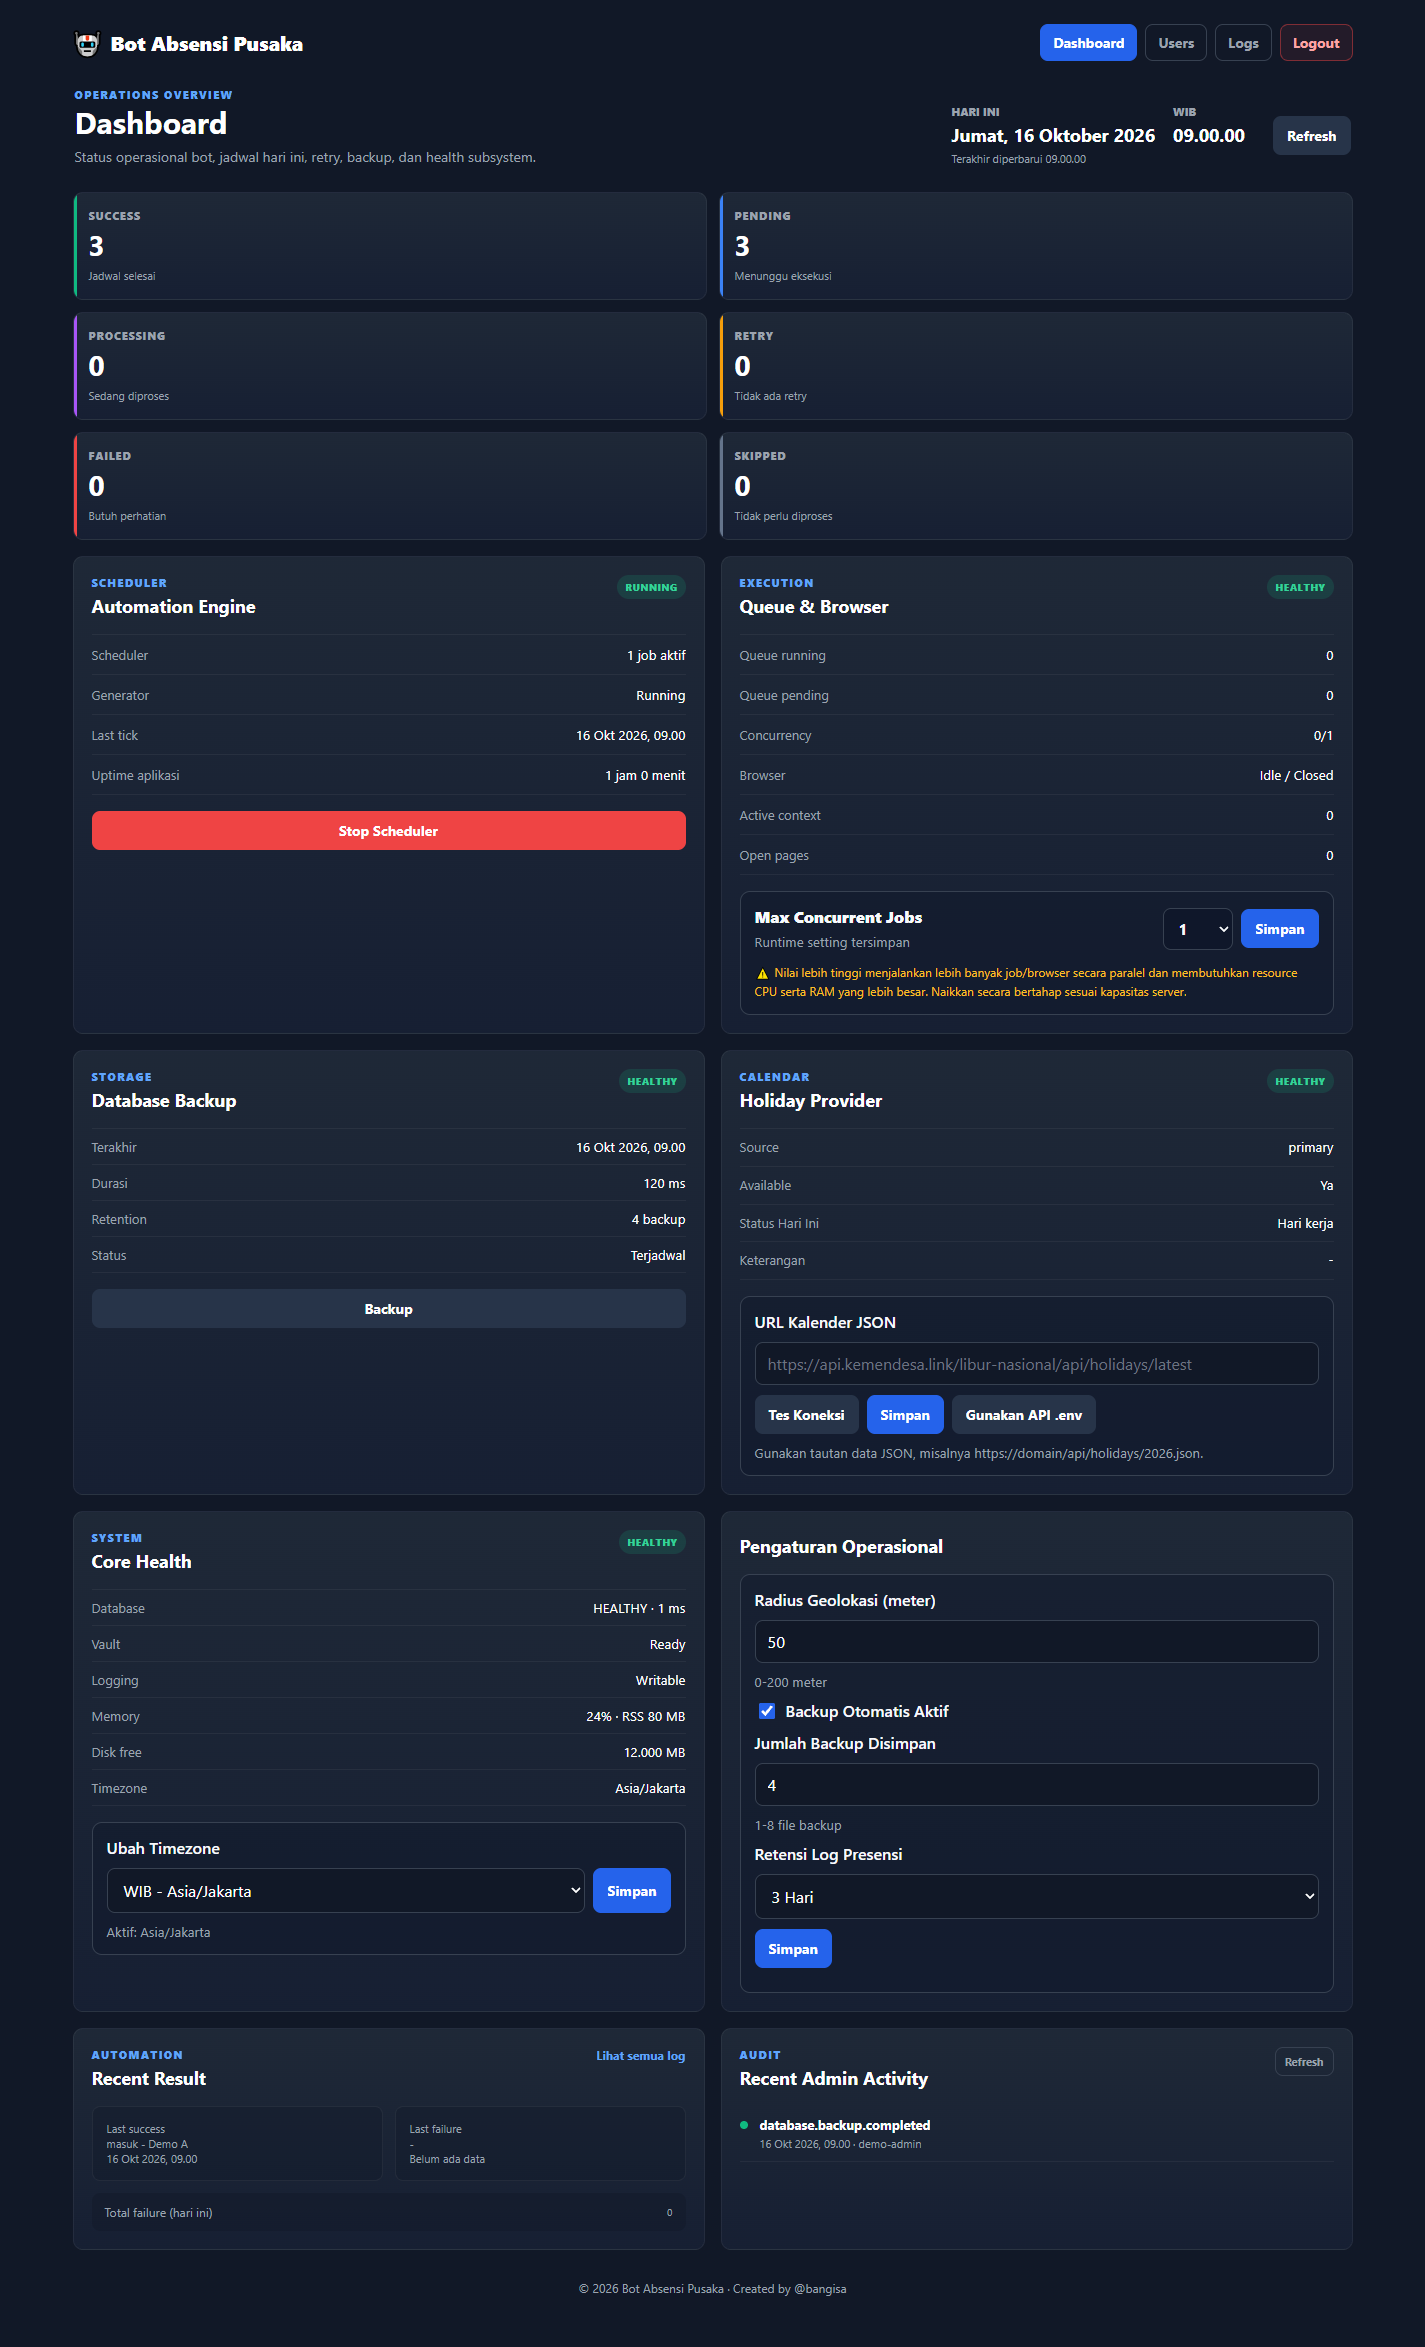
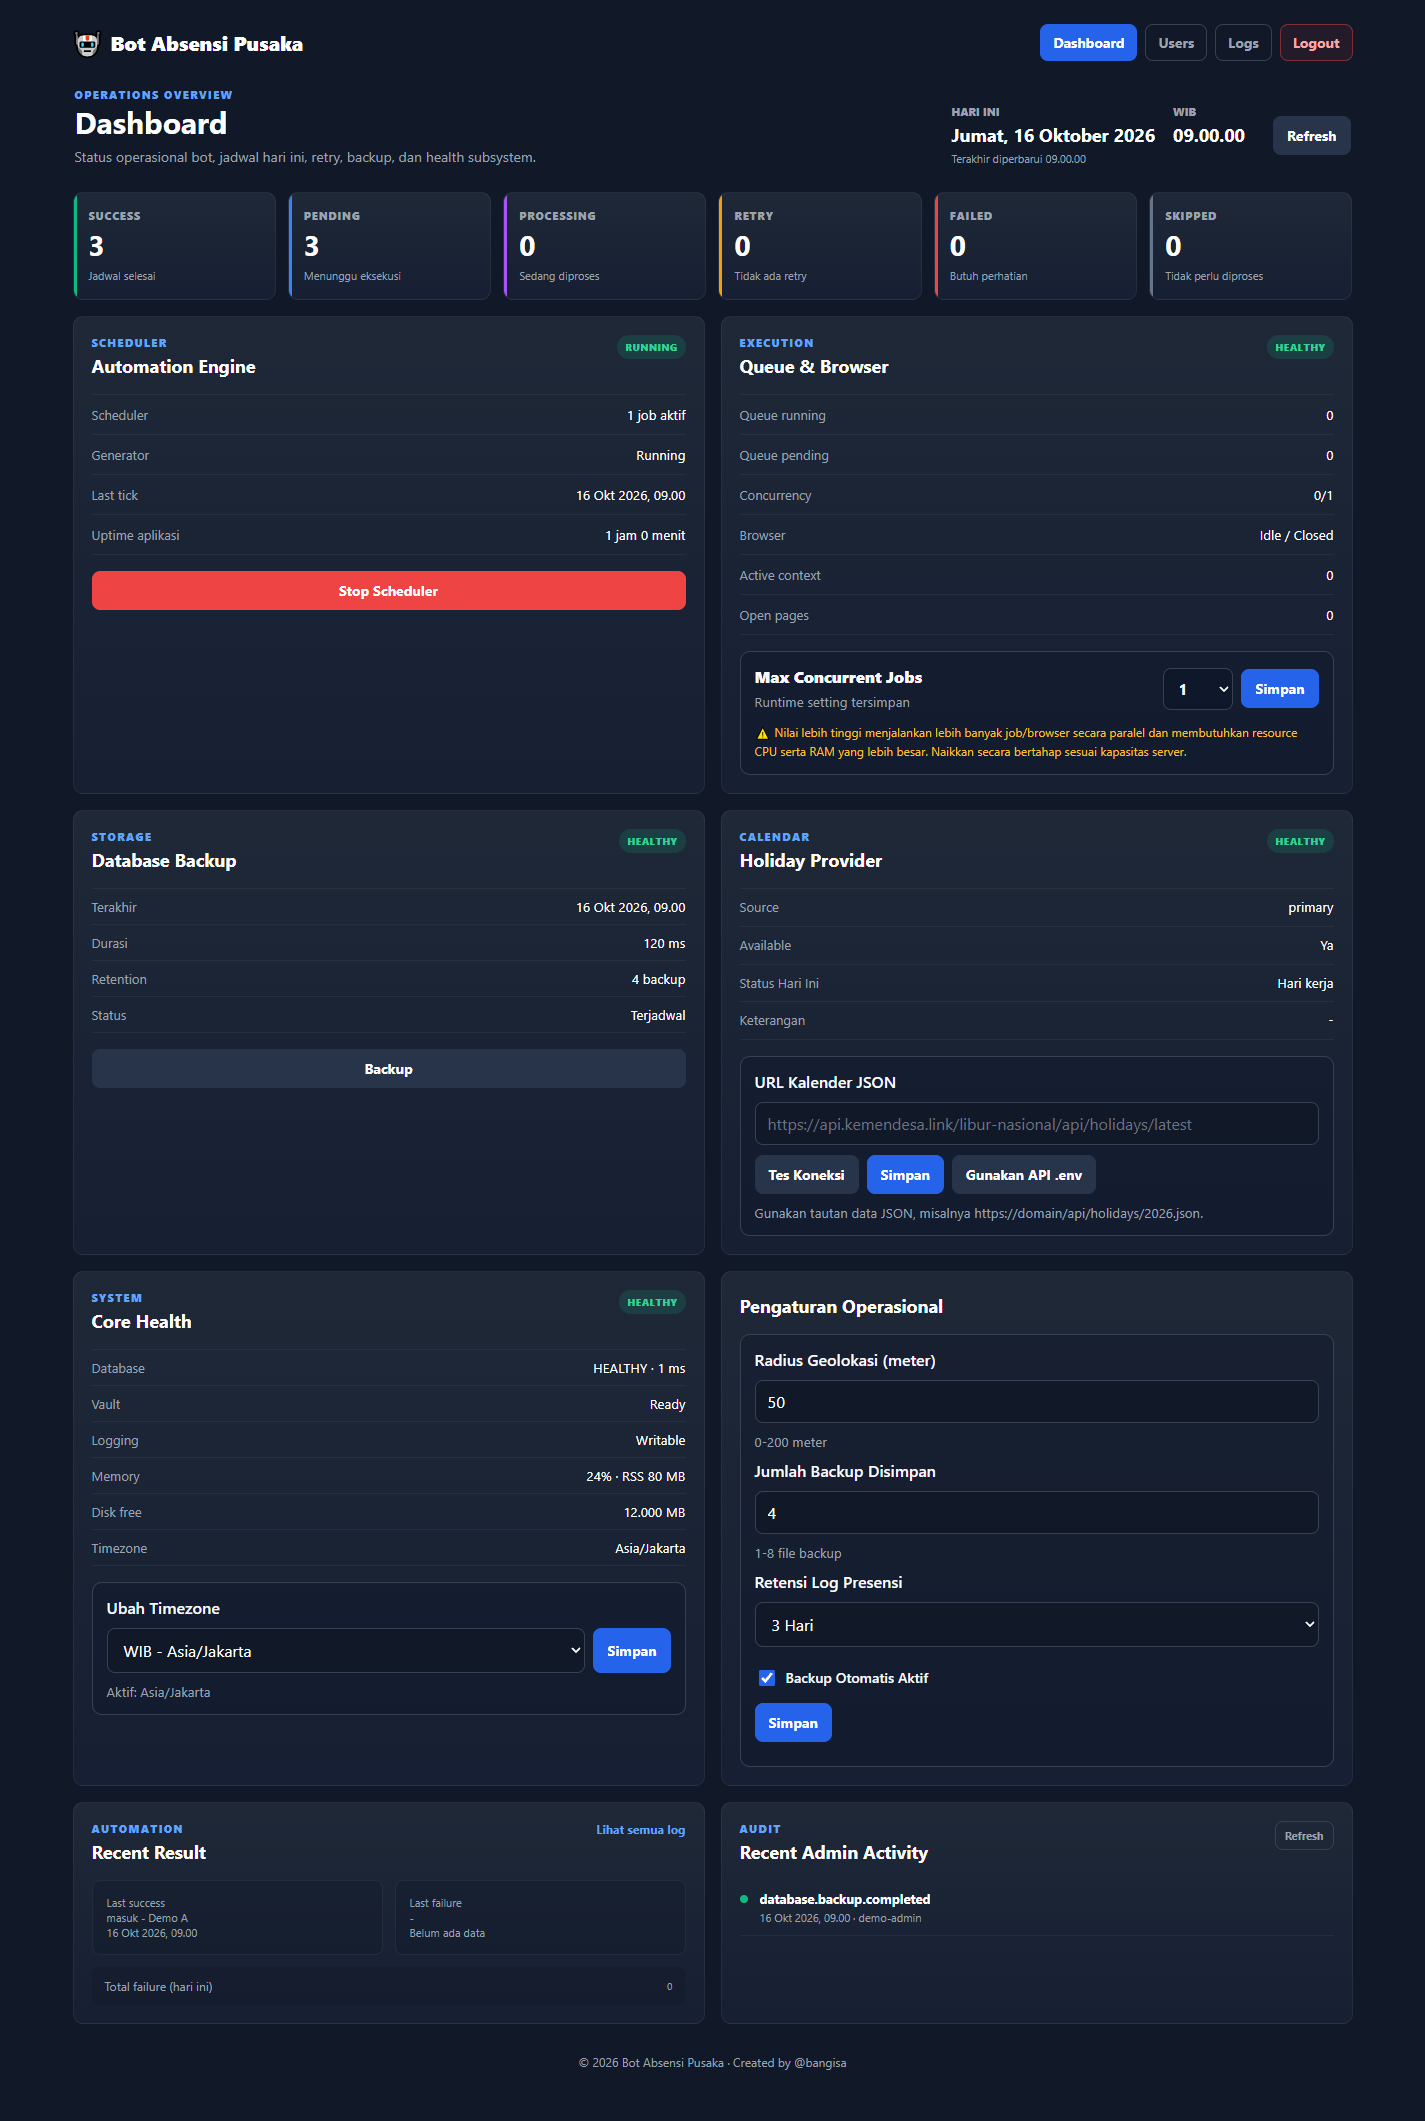
Perbarui README dan screenshot dashboard terbaru
- Jelaskan pengaturan operasional dan restart timezone

- Tampilkan ringkasan satu baris dan posisi checklist backup terbaru

diff --git a/README.md b/README.md
@@ -10,7 +10,8 @@ Bot Absensi Pusaka adalah aplikasi automation privat untuk mengelola jadwal dan 
 - Tambah, edit, dan hapus user dengan nickname serta credential terenkripsi. Password lama tidak dikirim ke frontend.
 - Paket 1, 7, 30, 90 hari layanan atau tak terbatas. Masuk dan pulang pada hari yang sama dihitung satu hari; hari libur tidak mengurangi kuota.
 - Kalender libur dengan provider fallback dan pengaturan URL kalender JSON yang didukung.
-- Pengaturan timezone dengan tanggal dan jam sesuai wilayah operasional.
+- Pengaturan timezone dengan tanggal dan jam sesuai wilayah, konfirmasi restart aplikasi melalui PM2, serta layar tunggu sampai aplikasi kembali tersedia.
+- Pengaturan operasional tersimpan di database: radius geolokasi 0-200 meter, backup aktif/nonaktif, retention 1-8 file, dan retensi log presensi 3 atau 7 hari.
 - Log dengan pagination, filter, normalisasi status, dan redaksi data sensitif.
 - Backup SQLite mingguan dan manual, dengan default retention 4 file.
 - Login admin, CSRF protection, pembatasan percobaan login, dan dukungan HTTPS melalui reverse proxy.
@@ -85,7 +86,22 @@ npm run dev
 
 Aplikasi berjalan pada port yang ditentukan oleh `PORT`, default `3000`.
 
-Perubahan timezone dari dashboard memerlukan restart aplikasi; jadwal dan log lama tidak dikonversi.
+Perubahan timezone dari dashboard memerlukan scheduler berhenti, queue/browser selesai, dan tidak ada jadwal pending/processing. Setelah disimpan, konfirmasikan restart atau gunakan tombol Restart Aplikasi kemudian. Restart otomatis memerlukan PM2 dengan autorestart aktif; jadwal dan log lama tidak dikonversi. Dengan `AUTO_START=false`, jalankan scheduler kembali setelah restart.
+
+## Pengaturan Operasional
+
+Pengaturan pada dashboard tersimpan di `system_settings` dan tetap tersedia setelah restart. Concurrency, kalender JSON, serta pengaturan operasional diterapkan tanpa restart; timezone diterapkan setelah restart.
+
+| Pengaturan | Pilihan | Penerapan |
+| --- | --- | --- |
+| Radius geolokasi | 0-200 meter | Proses automation berikutnya; 0 tanpa offset acak |
+| Backup otomatis | Aktif atau nonaktif | Mengatur layanan backup runtime, termasuk ketersediaan tombol Backup |
+| Jumlah backup disimpan | 1-8 file, default 4 | Pembersihan setelah snapshot baru berhasil dibuat |
+| Retensi log presensi | 3 atau 7 hari, default 3 | Cleanup berikutnya; tidak mengubah retensi audit atau log server |
+
+Nilai database mengambil prioritas atas default `.env` tanpa menulis ulang file tersebut. Cron dan folder backup, credential, pengaturan sesi, serta `AUTO_START` tetap dikelola melalui `.env`. CLI `admin:backup` masih memakai retention dari `.env`, bukan pengaturan runtime dashboard.
+
+Dashboard menampilkan enam card ringkasan dalam satu baris pada desktop dan menyesuaikan menjadi 3, 2, atau 1 kolom pada layar lebih kecil. Card operasional menggunakan dua kolom pada desktop dan satu kolom pada layar kecil.
 
 ## Pengujian Lokal
 
